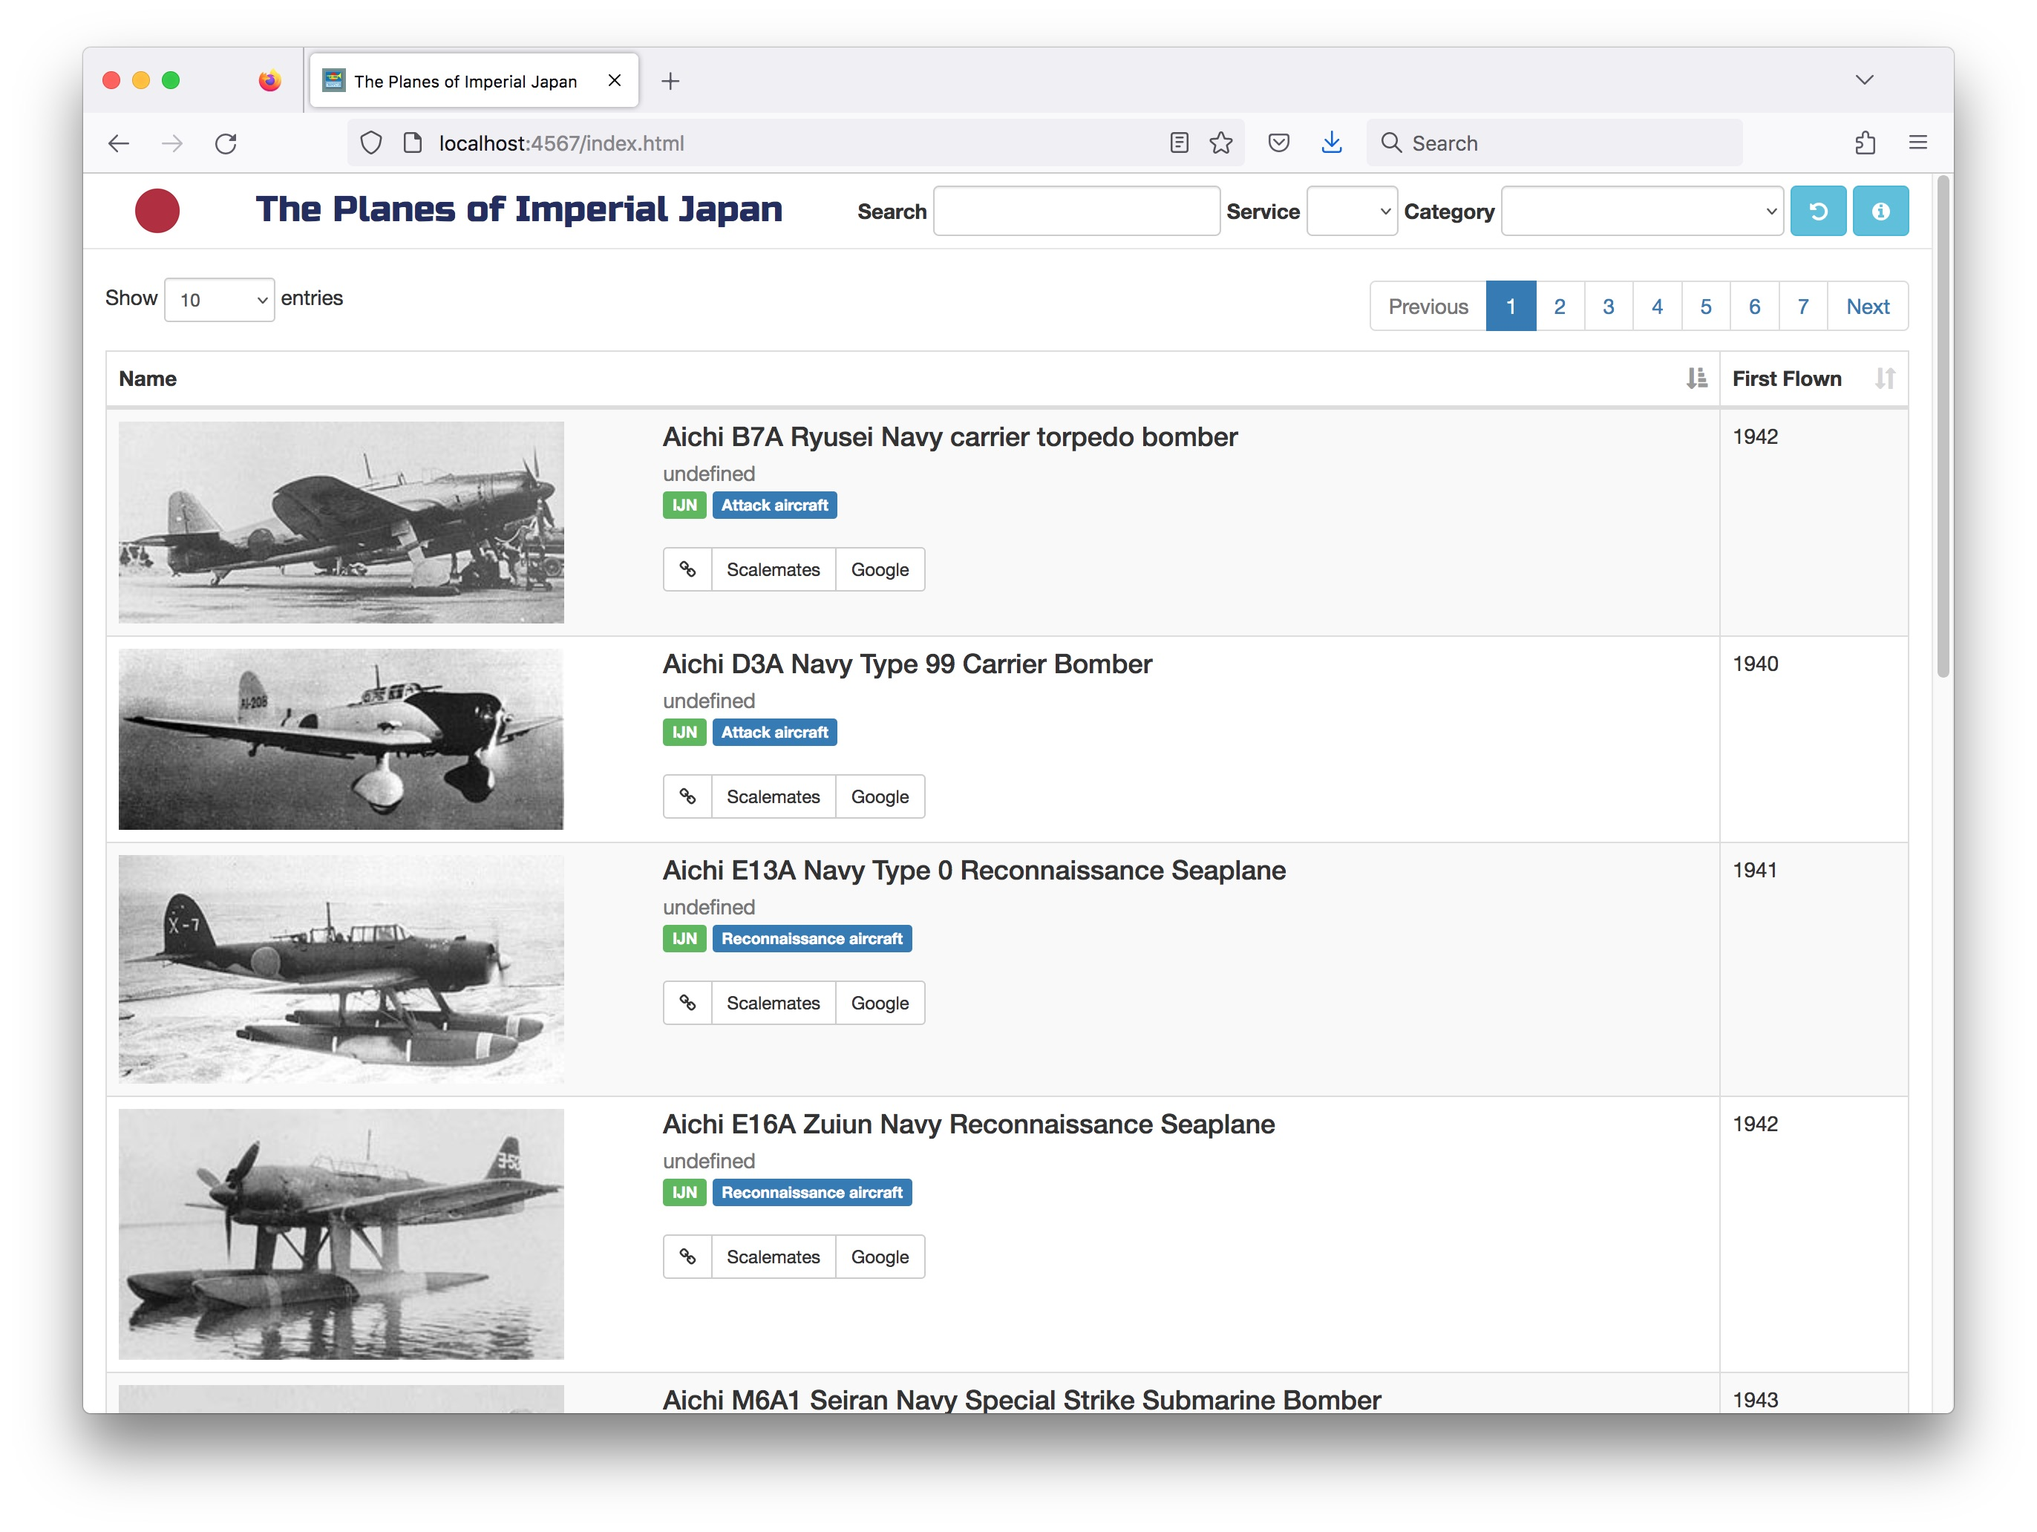
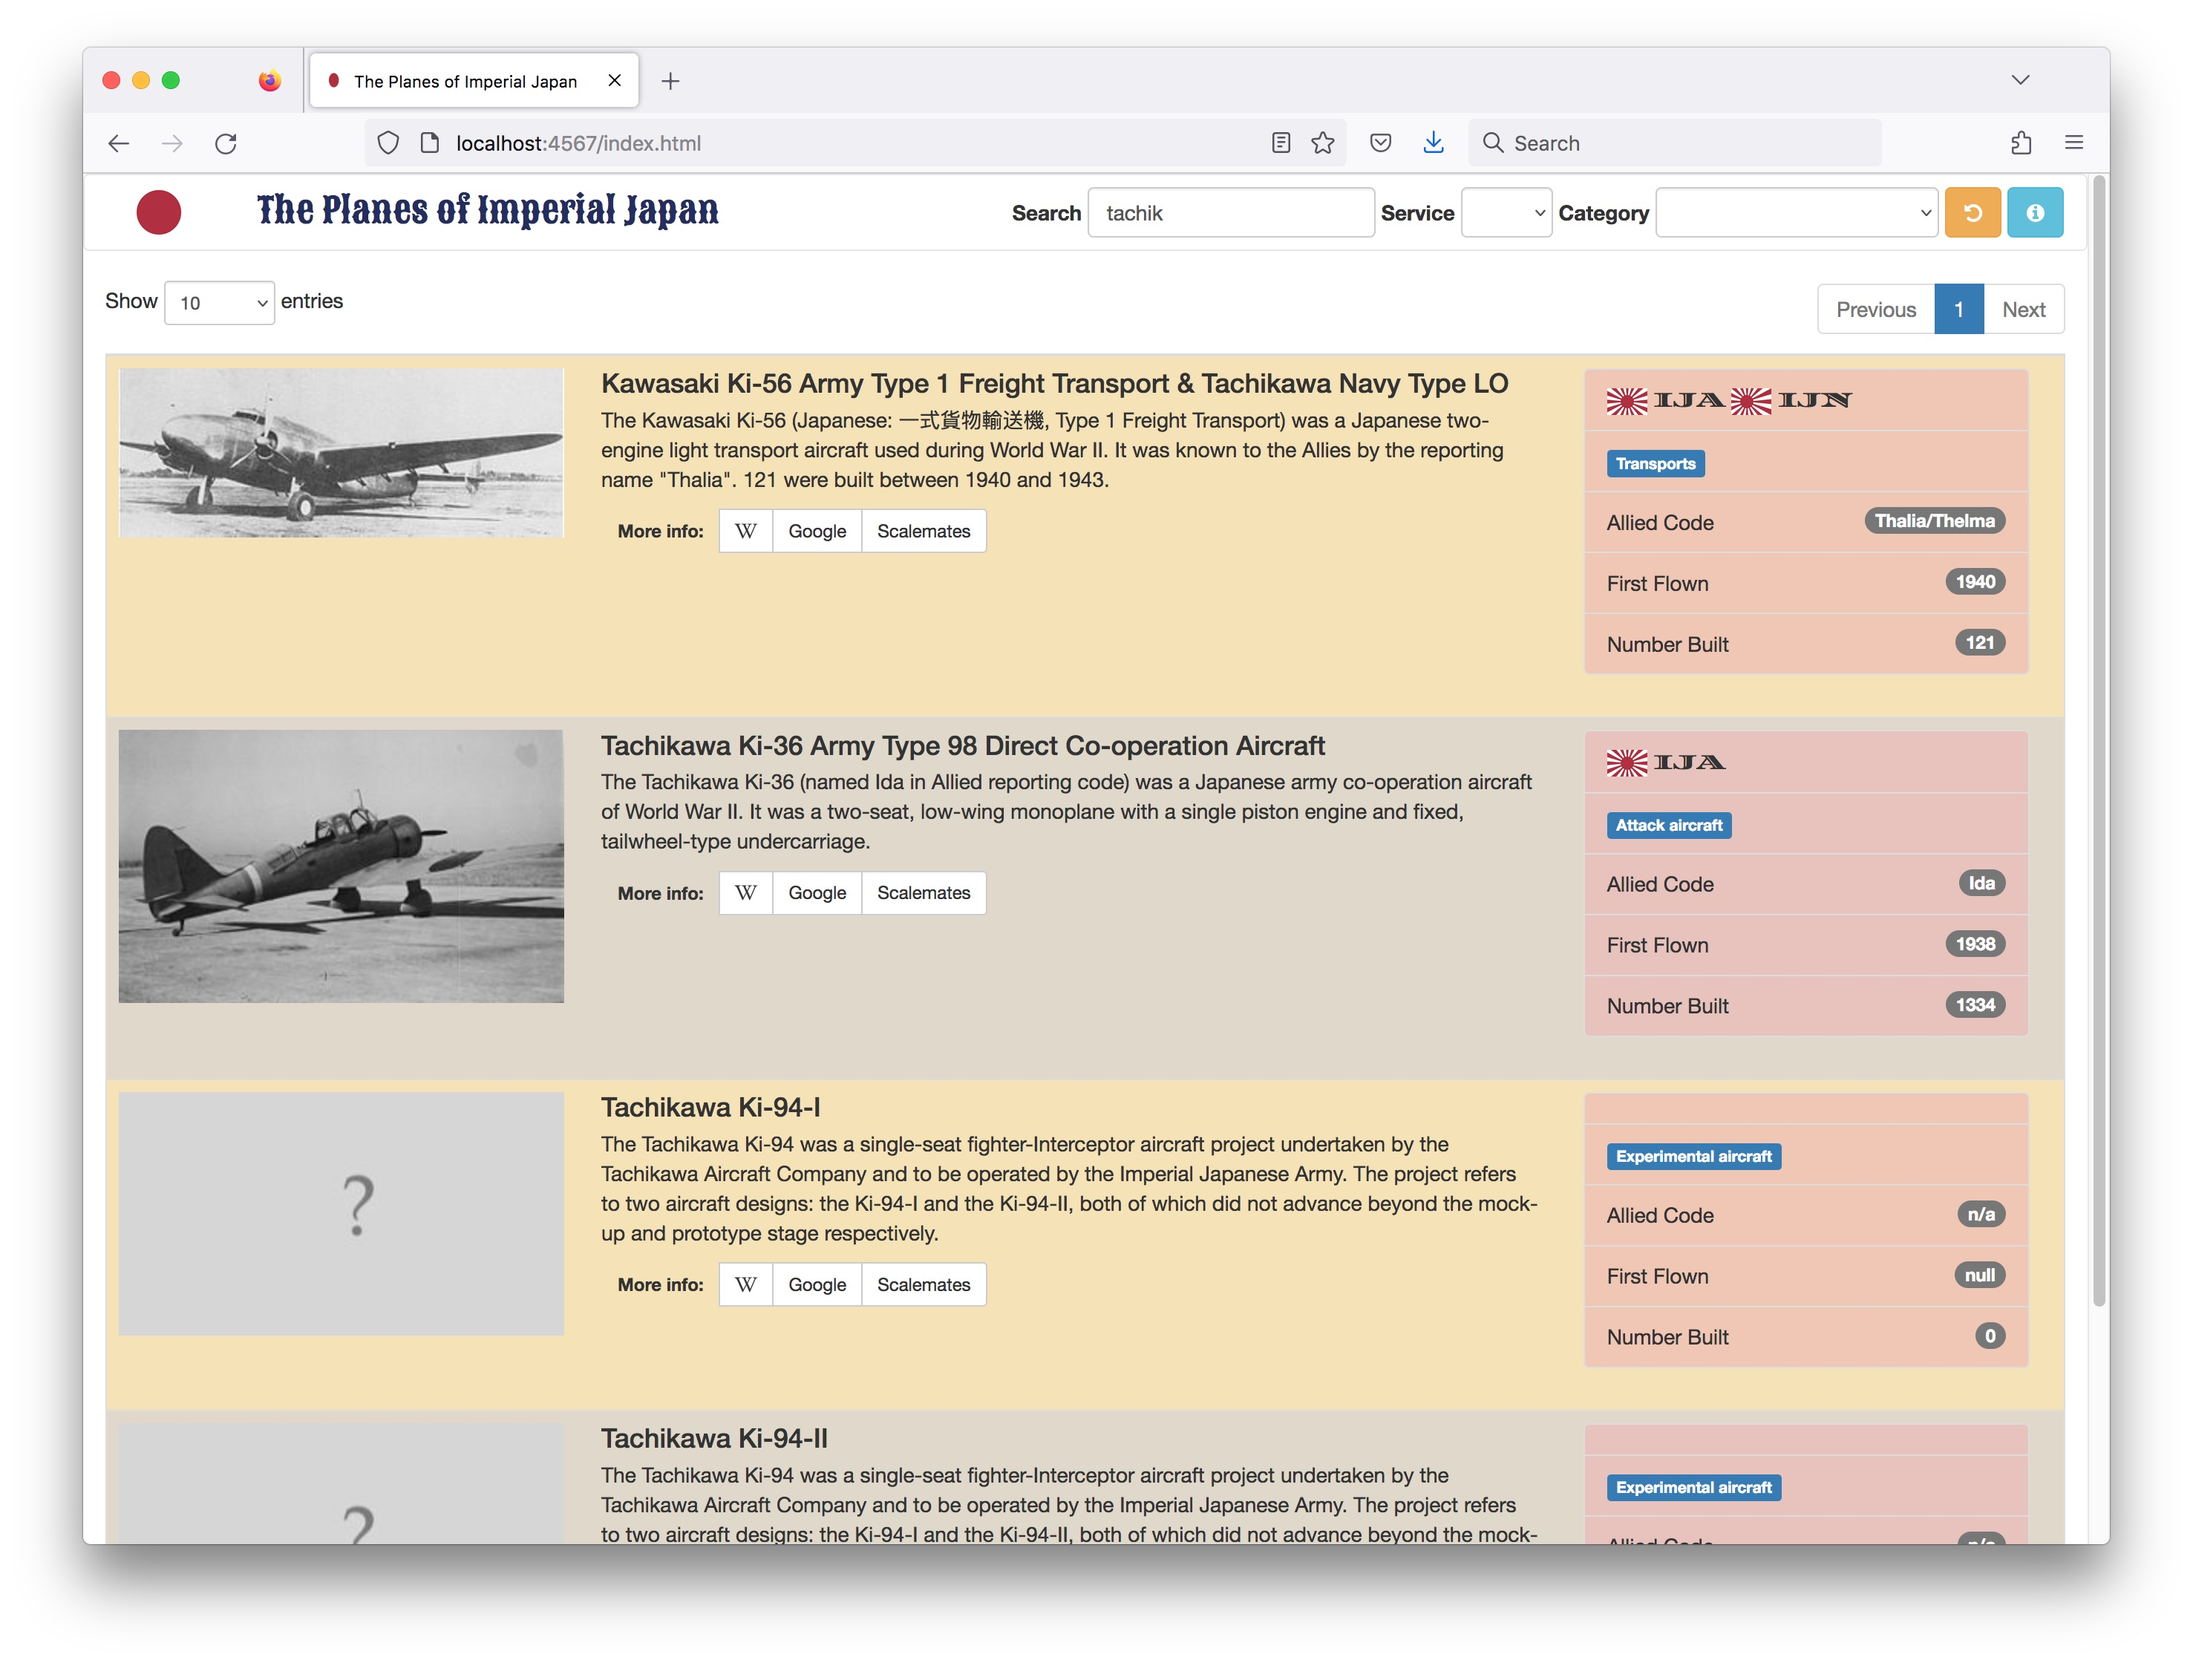
clean up design and presentation

diff --git a/assets/skin.js b/assets/skin.js
@@ -81,7 +81,6 @@
           instance.applyFilter();
         },
         rowCallback: function(row, data, index) {
-          var cell, main_cell, description_cell;
           var url = data.url;
           var local_image_url = 'cache/images/' + (data.image_local_name || 'undefined.jpg');
           var product_search_term = data.title.replace(' ', '+');
@@ -89,11 +88,9 @@
           var google_url = 'https://www.google.com/search?q=' + product_search_term;
 
           var services_styles = '';
-          var services_fragment = '';
 
           for (var i = 0; i < data.services.length; i++) {
             services_styles += ' service-' + data.services[i].toLowerCase();
-            services_fragment += ' <span class="label label-success">' + data.services[i] + '</span>';
           }
 
           var allied_code_fragment = '';
@@ -106,7 +103,16 @@
 
           var info_fragment = '<ul class="list-group"> \
               <li class="list-group-item"> \
-                ' + services_fragment + ' \
+                <span class="display-ija" style="display: none;"> \
+                  <img src="assets/flag_ija.png" alt="IJA"/> \
+                  <span class="service-name">IJA</span> \
+                </span> \
+                <span class="display-ijn" style="display: none;"> \
+                  <img src="assets/flag_ijn.png" alt="IJN"/> \
+                  <span class="service-name">IJN</span> \
+                </span> \
+              </li> \
+              <li class="list-group-item"> \
                 <span class="label label-primary">' + data.category + '</span> \
               </li> \
               ' + allied_code_fragment + ' \
@@ -123,24 +129,26 @@
           var name = data.name;
           if (data.title_ja) name += ' <span>(' + data.title_ja + ')</span>';
 
-          description_cell = '<div class="media' + services_styles + '" data-uuid="' + data.uuid + '"> \
+          var main_description = '<p class="description">' + data.description + '</p> \
+            <div class="btn-group btn-group-sm" role="group"> \
+              <div class="btn"><strong>More info:</strong></div> \
+              <a href="' + url + '" target="_blank" class="btn btn-default"><i class="fa fa-wikipedia-w" aria-hidden="true"></i></a> \
+              <a href="' + google_url + '" target="_blank" type="button" class="btn btn-default">Google</a> \
+              <a href="' + scalemates_url + '" target="_blank" type="button" class="btn btn-default">Scalemates</a> \
+            </div> \
+            <br/><br/>';
+
+          var description_cell = '<div class="media' + services_styles + '" data-uuid="' + data.uuid + '"> \
             <div class="media-left plane-media"> \
               <a href="' + url + '" target="_blank"> \
-                <img class="media-object" src="' + local_image_url + '" alt="' + data.title + '"> \
+                <img class="media-object" src="' + local_image_url + '" alt="' + data.title + '"/> \
               </a> \
             </div> \
             <div class="media-body"> \
               <row> \
                 <div class="col-md-8"> \
                   <h4 class="media-heading">' + name + '</h4> \
-                  <p class="description">' + data.description + '</p> \
-                  <div class="btn-group btn-group-sm" role="group"> \
-                    <div class="btn"><strong>More info:</strong></div> \
-                    <a href="' + url + '" target="_blank" class="btn btn-default"><i class="fa fa-wikipedia-w" aria-hidden="true"></i></a> \
-                    <a href="' + google_url + '" target="_blank" type="button" class="btn btn-default">Google</a> \
-                    <a href="' + scalemates_url + '" target="_blank" type="button" class="btn btn-default">Scalemates</a> \
-                  </div> \
-                  <br/><br/> \
+                  ' + main_description + ' \
                 </div> \
                 <div class="col-md-4"> \
                   ' + info_fragment + ' \
@@ -149,7 +157,7 @@
             </div> \
           </div>';
 
-          cell = $('td:eq(0)', row)
+          var cell = $('td:eq(0)', row)
           cell.attr('data-url', url)
           cell.html(description_cell);
           return cell

diff --git a/index.html b/index.html
@@ -8,18 +8,18 @@
     <link rel="stylesheet" type="text/css" href="https://cdn.datatables.net/r/bs-3.3.5/jq-2.1.4,dt-1.10.8/datatables.min.css"/>
     <link rel="stylesheet" href="assets/skin.css" type="text/css">
     <!-- Fonts -->
+    <link href="https://maxcdn.bootstrapcdn.com/font-awesome/latest/css/font-awesome.min.css" rel="stylesheet">
     <link rel="preconnect" href="https://fonts.googleapis.com">
     <link rel="preconnect" href="https://fonts.gstatic.com" crossorigin>
-    <link href="https://fonts.googleapis.com/css2?family=Permanent+Marker&display=swap" rel="stylesheet">
-    <link href="https://maxcdn.bootstrapcdn.com/font-awesome/latest/css/font-awesome.min.css" rel="stylesheet">
+    <link href="https://fonts.googleapis.com/css2?family=Diplomata+SC&family=Sancreek&display=swap" rel="stylesheet">
     <!-- Favicon -->
     <link rel="apple-touch-icon" sizes="180x180" href="assets/favicon/apple-touch-icon.png">
     <link rel="icon" type="image/png" sizes="32x32" href="assets/favicon/favicon-32x32.png">
     <link rel="icon" type="image/png" sizes="16x16" href="assets/favicon/favicon-16x16.png">
     <link rel="manifest" href="assets/favicon/site.webmanifest">
 </head>
-<body class="trumpeter">
-  <nav class="navbar navbar-default navbar-fixed-top" role="navigation">
+<body>
+  <nav class="navbar navbar-default" role="navigation">
     <div class="container-fluid">
       <div class="navbar-header">
         <a class="navbar-brand" href="https://en.wikipedia.org/wiki/List_of_aircraft_of_Japan_during_World_War_II">

diff --git a/assets/skin.css b/assets/skin.css
@@ -1,4 +1,9 @@
-body { padding-top: 70px; }
+.f-diplomata {
+  font-family: 'Diplomata SC', cursive !important;
+}
+.f-sancreek {
+  font-family: 'Sancreek', cursive !important;
+}
 
 .navbar-brand {
   padding-top: 0;
@@ -6,12 +11,11 @@ body { padding-top: 70px; }
 }
 
 .navbar-default .navbar-text {
-  font-family: 'Permanent Marker', cursive;
-  color: #232c60;
-  font-weight: 400;
+  font-family: 'Sancreek', cursive;
   font-size: x-large;
   margin-top: 7px;
   margin-bottom: 0px;
+  color: #232c60;
 }
 
 .navbar-brand > img {
@@ -24,4 +28,33 @@ body { padding-top: 70px; }
 
 .dataTable th {
   display: none;
+}
+
+.service-ija .display-ija {
+  display: inline !important;
+}
+
+.service-ijn .display-ijn {
+  display: inline !important;
+}
+
+.display-ija img,
+.display-ijn img {
+  height: 18px;
+}
+
+.service-name {
+  font-family: 'Diplomata SC', cursive;
+}
+
+.list-group-item {
+  background-color: #eeb3b396;
+}
+
+.table-striped > tbody > tr {
+  background-color: #c2b59785;
+}
+
+.table-striped > tbody > tr:nth-of-type(2n+1) {
+  background-color: #eec97285;
 }

diff --git a/README.md b/README.md
@@ -17,9 +17,7 @@ wikipedia page, available under the
 The catalog runs locally and needs a working ruby installation - I'm currently using Ruby 2.7.2 but the code is not version-sensitive.
 Dependencies can be installed with bundler in the usual way, then you are good to go:
 
-```bash
-bundle install
-```
+    bundle install
 
 ## Building the Plane Database
 
@@ -28,18 +26,29 @@ NB: this is sensitive to major changes in the wikipedia pages, but for now works
 
 Options:
 
-```bash
-$ bin/update.rb
-        Usage:
-          bin/update.rb all                      # reload plane data and ensures the image cache is complete
-          bin/update.rb cache                    # ensures the data and image cache is complete
-          bin/update.rb show_categories          # show all categories used by current records in the database
-          bin/update.rb (help)                   # this help
+    $ bin/update.rb
+            Usage:
+              bin/update.rb all                      # reload plane data and ensures the image cache is complete
+              bin/update.rb cache                    # ensures the data and image cache is complete
+              bin/update.rb show_categories          # show all categories used by current records in the database
+              bin/update.rb (help)                   # this help
 
-        Environment settings:
-          BACKOFF_SECONDS # override the default backoff delay 0.3 seconds
+            Environment settings:
+              BACKOFF_SECONDS # override the default backoff delay 0.3 seconds
 
-```
+## Testing the Loader Code
+
+The code has rspec coverage:
+
+    bundle exec rspec
+
+Or with rake
+
+    bundle exec rake spec
+
+Or with guard
+
+    bundle exec guard
 
 ## Running the Site
 
